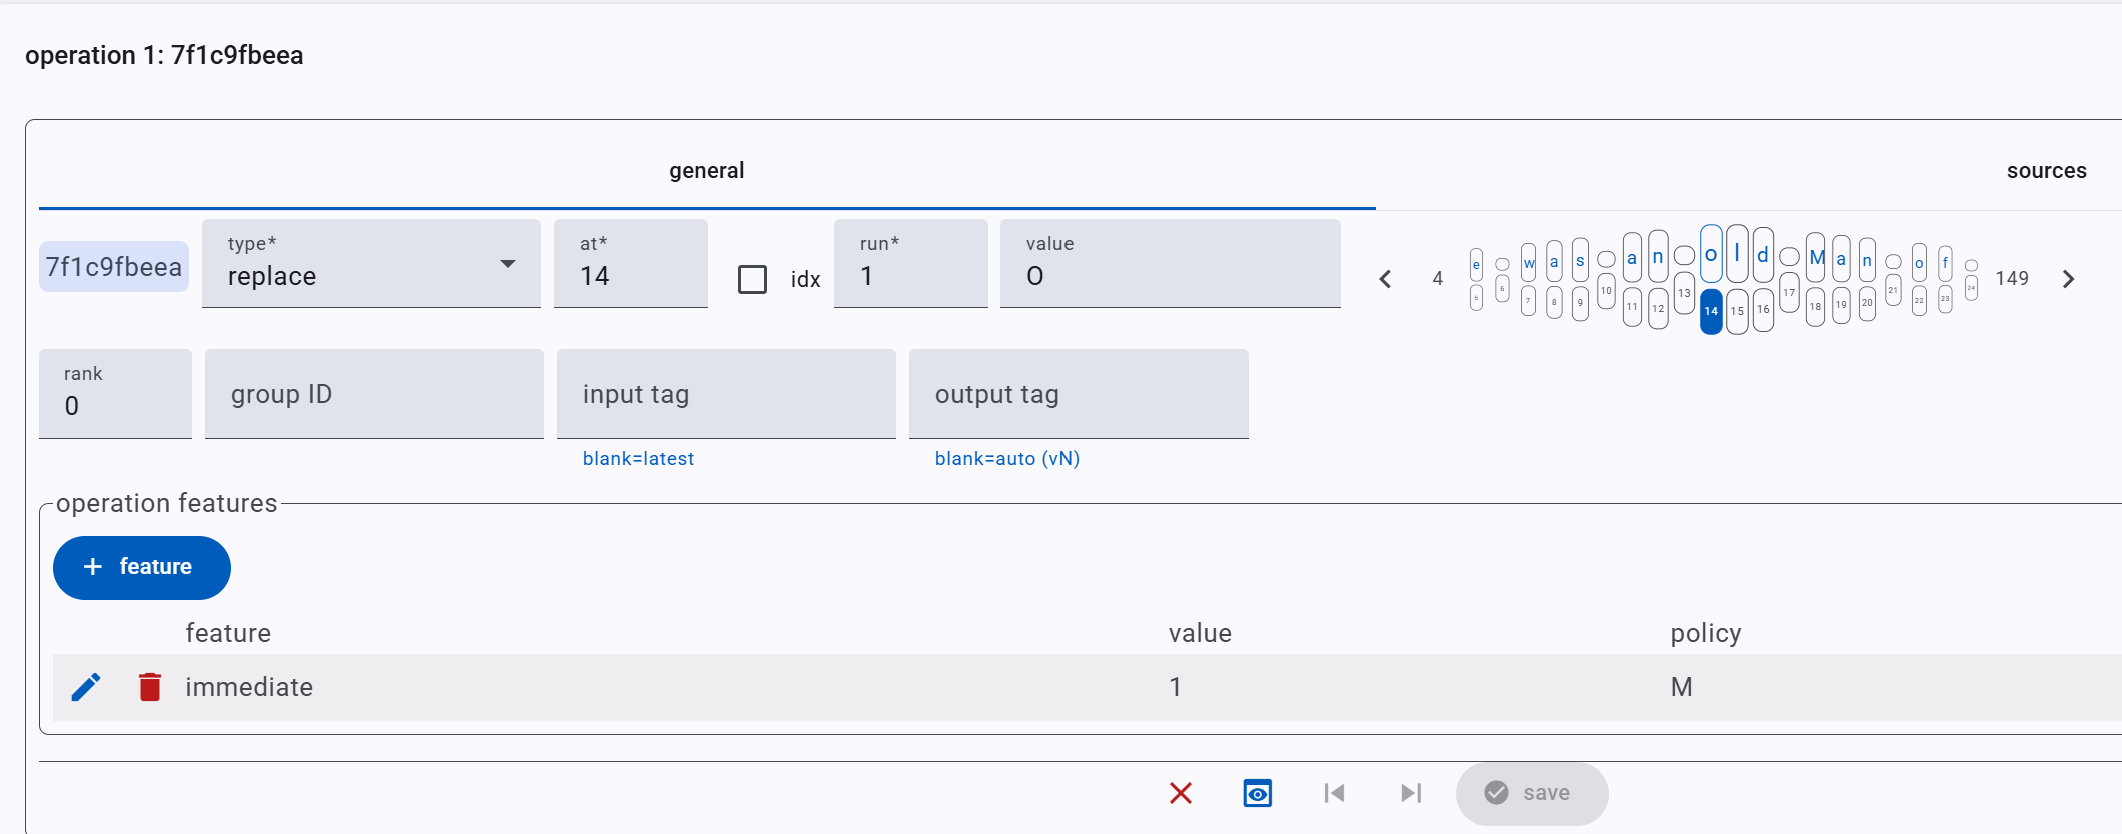
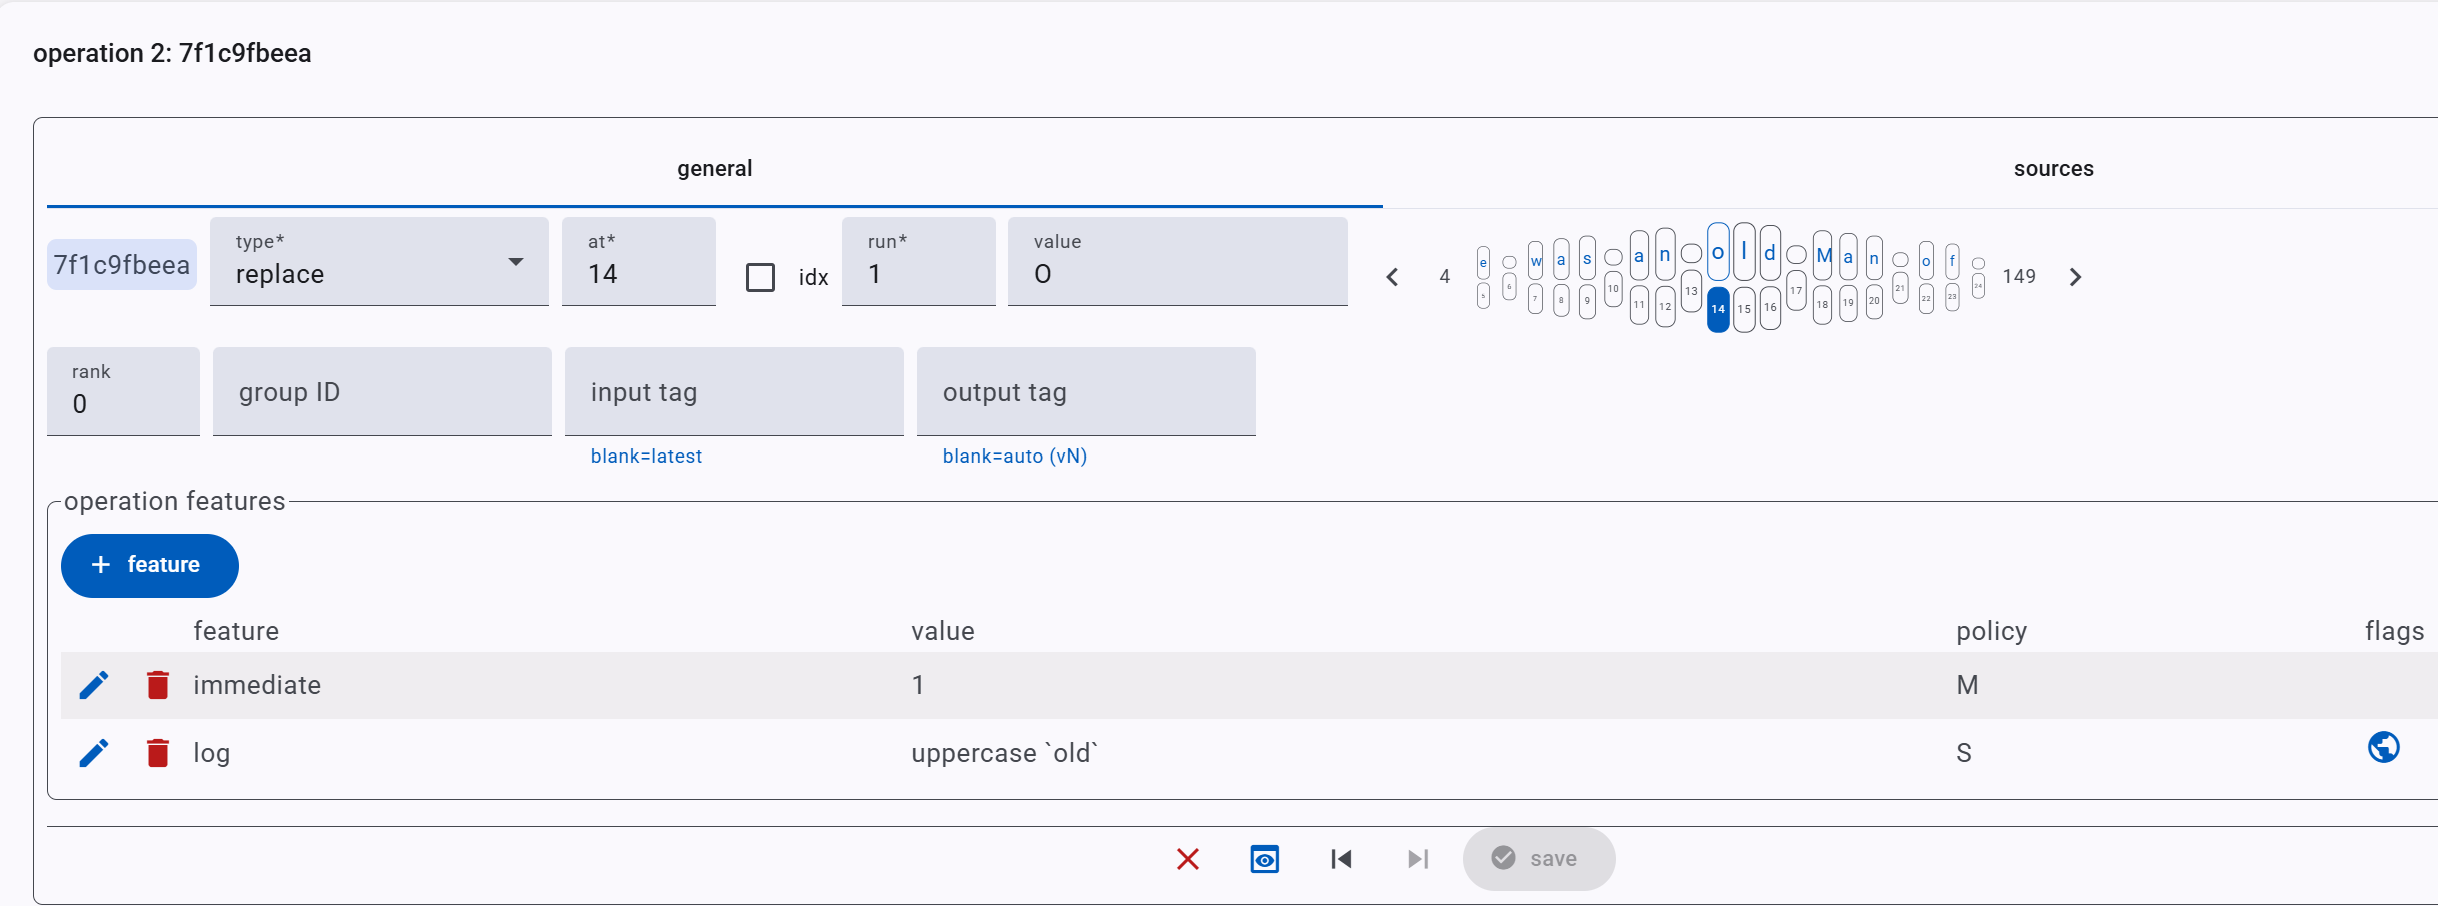
Sample

diff --git a/usage/snapshot-sample1.md b/usage/snapshot-sample1.md
@@ -1,5 +1,5 @@
 ---
-title: Snapshot sample 1
+title: Snapshot Sample 1
 layout: default
 parent: Usage
 nav_order: 4
@@ -9,11 +9,13 @@ nav_order: 4
 
 ![illustration](img/thermopylae-ill.png)
 
-> There was an Old Man of Thermopylae,
-> Who never did anything properly;
->   But they said, "If you choose,
->   To boil eggs in your shoes,
-> You shall never remain in Thermopylae".
+```txt
+There was an Old Man of Thermopylae,
+Who never did anything properly;
+  But they said, "If you choose,
+  To boil eggs in your shoes,
+You shall never remain in Thermopylae".
+```
 
 - adapted from Edward Lear. _A Book of Nonsense._ London: Routledge, Warne & Routledge, 1861. Plate 72.
 
@@ -97,6 +99,24 @@ He never dıd anything properly;
 
 Let us now define the operations following our description.
 
+### Indentation
+
+Indentation is encoded just like any other aspect of the visual layer, i.e. via features.
+
+To this end, add an annotate operation with a `char offsets` feature which contains an expression defining all the horizontal and/or vertical offsets for all characters which start an indented or otherwise offset text.
+
+👉 Hands-on:
+
+1. in the `operations` tab, click the `add operation` button.
+2. pick as type `annotate`, set `at`=1 and `run`=1 (conventionally we just target the first character of the text).
+3. click the `+feature` button and under name pick the `char offsets` feature; you can also type any characters of this name in the top search box (which opens when you click the name dropdown) to quickly locate it. Then in `value` type `69:x=100 100:x=100`. Let us dissect this value (look at the [rendition documentation](../model/rendition.md) for more):
+
+- `69:` means that you are targeting character ID 69.
+- `x=100` means that you are setting a horizontal offset equal to 100 pixels (this is just a convenient value, you can change it as you want).
+- again, the next expression after space says to add a horizontal offset equal to 100 to character with ID=100.
+
+4. save the feature (round check button) and the operation (`save` button). The operation appears in the list. Before looking at the rendition, let us add an alteration to the base text with the next operation.
+
 ### Black Hand
 
 (1) `old` → `Old`. Here we literally replace `o` with `O`, adding an `immediate` feature with value `1` (which here represents the true value of a boolean feature).
@@ -106,8 +126,12 @@ Let us now define the operations following our description.
 1. in the base text display, check the `o` character you want to replace. This has ID=14. If you click it, the new operation you are going to add will pick the current selection as its coordinates; or you can just go ahead, add a new operation, and then set the coordinates.
 2. in the `operations` tab, click the `add operation` button.
 3. pick as type `replace`, set `at`=14 and `run`=1, and enter the new text `O` in `value`.
-4. let us now add a feature for "immediate": click the `+feature` button and under name pick the `immediate` feature; you can also type any characters of this name in the top search box (which opens when you click the name dropdown) to quickly locate it. Then in value select `1`, which is the only possible value for this feature, which is a boolean feature. Then, click the round checkmark button to add this feature. You will see it in the features list. Finally, click save to save the operation, and the bottom save button to save the whole part if you want to save it; or just the run button of the newly added operation. This will update the rendition section.
-5. in the rendition section, click the play button and look at the `o`: you will see it replaced by an overwritten `O` after a few instants, just like it happened in our manuscript.  
+4. let us now add a couple of features:
+   - _immediate_: click the `+feature` button and under name pick the `immediate` feature. Then in `value` select `1`, which is the only possible value for this feature, which is a boolean feature. Then, click the round checkmark button to add this feature.
+   - _log_: conventionally we always add a log feature to each operation to quickly describe it. So repeat the above procedure, pick `log` as the feature name, and in `value` type something like `uppercase 'old'`.
+   - finally, click `save` to save the operation, and the bottom `save` button to save the whole part if you want to save it; or just the run button of the newly added operation. This will update the rendition section.
+
+5. in the rendition section, click the play button and look at the `o`: you will see it replaced by an overwritten `O` after a few instants, just like it happened in our manuscript.
 
 ![operation 1](img/ex1-02.png)
 
@@ -115,4 +139,6 @@ As for the rendition, there is no need for rendition-oriented features here, bec
 
 ![rendition of operation 1](img/ex1-03.png)
 
-Note on the left the two colored rectangles representing `v0` and `v1`.
+Note the indents, and on the left the 3 colored rectangles representing `v0` (=base text), `v1` (indentations), `v2` (replacement).
+
+> Of course the separation of indentation from base text here is just a matter of convenience to ensure a uniform model. We set the input text as plain text, and then separate its visual aspect (like indents) on the visual layer via a rendition feature.
